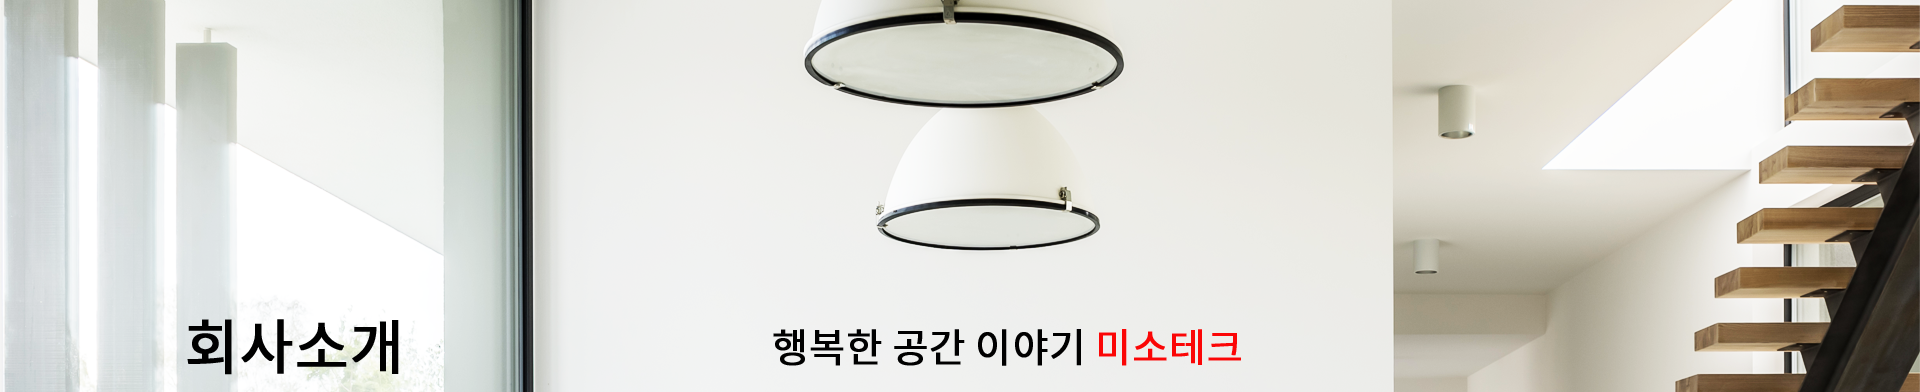
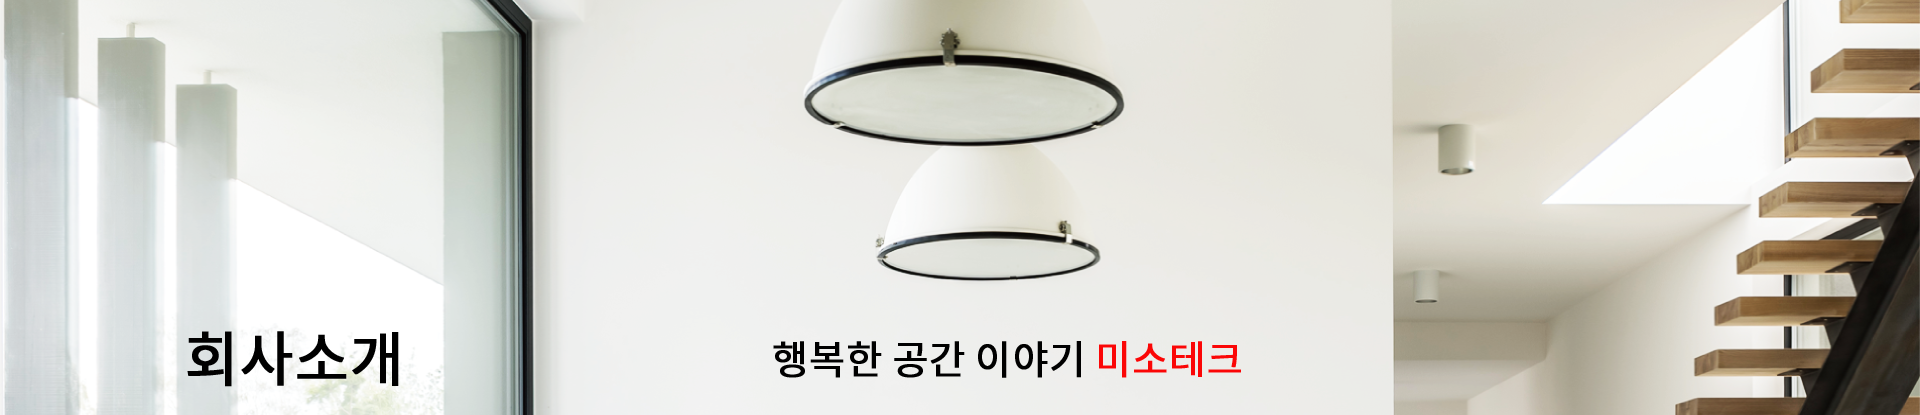
0709-1

diff --git a/client/src/Routes/Portfolio/Portfolio.js b/client/src/Routes/Portfolio/Portfolio.js
@@ -3,7 +3,7 @@ import styled from 'styled-components';
 import { withRouter } from 'react-router-dom';
 import Scroll from 'react-scroll';
 
-import portFolioMain from '../../assets/img/portfolio/portfolioMain.png';
+import portfolioHeader from '../../assets/img/portfolio/portfolioHeader.png';
 import apt from '../../assets/img/portfolio/apt.png';
 import office from '../../assets/img/portfolio/office.png';
 import drama from '../../assets/img/portfolio/drama.png';
@@ -16,7 +16,7 @@ const Container = styled.div`
 
 const Header = styled.div`
   width: 100%;
-  height: 24.74vw;
+  height: calc((415 / 1920) * 100vw);
   background: url(${(props) => props.back});
   background-size: contain;
   background-position: center;
@@ -96,7 +96,7 @@ const Portfolio = (props) => {
 
   return (
     <Container>
-      <Header back={portFolioMain} />
+      <Header back={portfolioHeader} />
       <ImgBox>
         <Body ref={modelRef} src={modelHouse} alt="modelHouse" />
         <Body ref={aptRef} src={apt} alt="apt" />

diff --git a/client/src/Routes/Company/Intro.js b/client/src/Routes/Company/Intro.js
@@ -5,6 +5,9 @@ import IntroBody from '../../assets/img/company/IntroBody.png';
 
 const Container = styled.div`
   width: 100vw;
+  display: flex;
+  flex-direction: column;
+  align-items: center;
 `;
 
 const Header = styled.div`
@@ -13,23 +16,19 @@ const Header = styled.div`
   background-size: 100%;
   background-position: center;
   background-repeat: no-repeat;
-  height: 20.42vw;
+  height: calc((415 / 1920) * 100vw);
 `;
 
-const Body = styled.div`
-  width: 100%;
-  background: url(${IntroBody});
-  background-size: 100%;
-  background-position: center;
-  background-repeat: no-repeat;
-  height: 162.8vw;
+const Body = styled.img`
+  width: 60vw;
+  margin-top: 3vw;
 `;
 
 const Intro = () => {
   return (
     <Container>
       <Header />
-      <Body />
+      <Body src={IntroBody} alt="introCompany" />
     </Container>
   );
 };

diff --git a/client/src/Components/Router.js b/client/src/Components/Router.js
@@ -12,6 +12,7 @@ import Intro from '../Routes/Company/Intro';
 import Map from '../Routes/Company/Map';
 import Products from '../Routes/Product/Products';
 import Portfolio from '../Routes/Portfolio/Portfolio';
+import ProductCatalogue from '../Routes/Catalogue/ProductCatalogue';
 
 export default () => (
   <Router>
@@ -23,6 +24,7 @@ export default () => (
         <Route path="/company/map" exact component={Map} />
         <Route path="/products/:id" exact component={Products} />
         <Route path="/portfolio/:id" exact component={Portfolio} />
+        <Route path="/promotion/product" exact component={ProductCatalogue} />
         <Redirect from="*" to="/" />
       </Switch>
       <Footer />

diff --git a/client/src/Routes/Product/Products.js b/client/src/Routes/Product/Products.js
@@ -5,7 +5,7 @@ import { useEffect } from 'react';
 import Scroll from 'react-scroll';
 import { withRouter, Link } from 'react-router-dom';
 
-import ProductHeader from '../../assets/img/products/ProductHeader.png';
+import ProductHeader from '../../assets/img/products/productHeader.png';
 import ProductContent from './ProductContent';
 import one from '../../assets/img/products/one/oneSliding.png';
 import MenuBar from './MenuBar';
@@ -19,7 +19,7 @@ const Container = styled.div`
 
 const Header = styled.div`
   width: 100%;
-  height: 20.42vw;
+  height: calc((415 / 1920) * 100vw);
   background: url(${(props) => props.back});
   background-size: cover;
   background-position: center;

diff --git a/client/src/Routes/Catalogue/ProductCatalogue.js b/client/src/Routes/Catalogue/ProductCatalogue.js
@@ -1,0 +1,29 @@
+import React from 'react';
+import styled from 'styled-components';
+
+import catalogueHeader from '../../assets/img/catalogue/catalogueHeader.png';
+
+const Container = styled.div`
+  width: 100%;
+`;
+
+const Header = styled.div`
+  width: 100%;
+  height: calc((415 / 1920) * 100vw);
+  background: url(${(props) => props.back});
+  background-size: contain;
+  background-position: center;
+  background-repeat: no-repeat;
+`;
+
+const Body = styled.img``;
+
+const ProductCatalogue = () => {
+  return (
+    <Container>
+      <Header back={catalogueHeader} />
+    </Container>
+  );
+};
+
+export default ProductCatalogue;

diff --git a/client/src/Components/Header/SecondHeader.js b/client/src/Components/Header/SecondHeader.js
@@ -164,7 +164,7 @@ const ListDataArr = [
       sub_menuArr: [
         {
           title: '중문 카다로그',
-          link: '/company/introduce',
+          link: '/promotion/product',
         },
         {
           title: '유리 카다로그',
